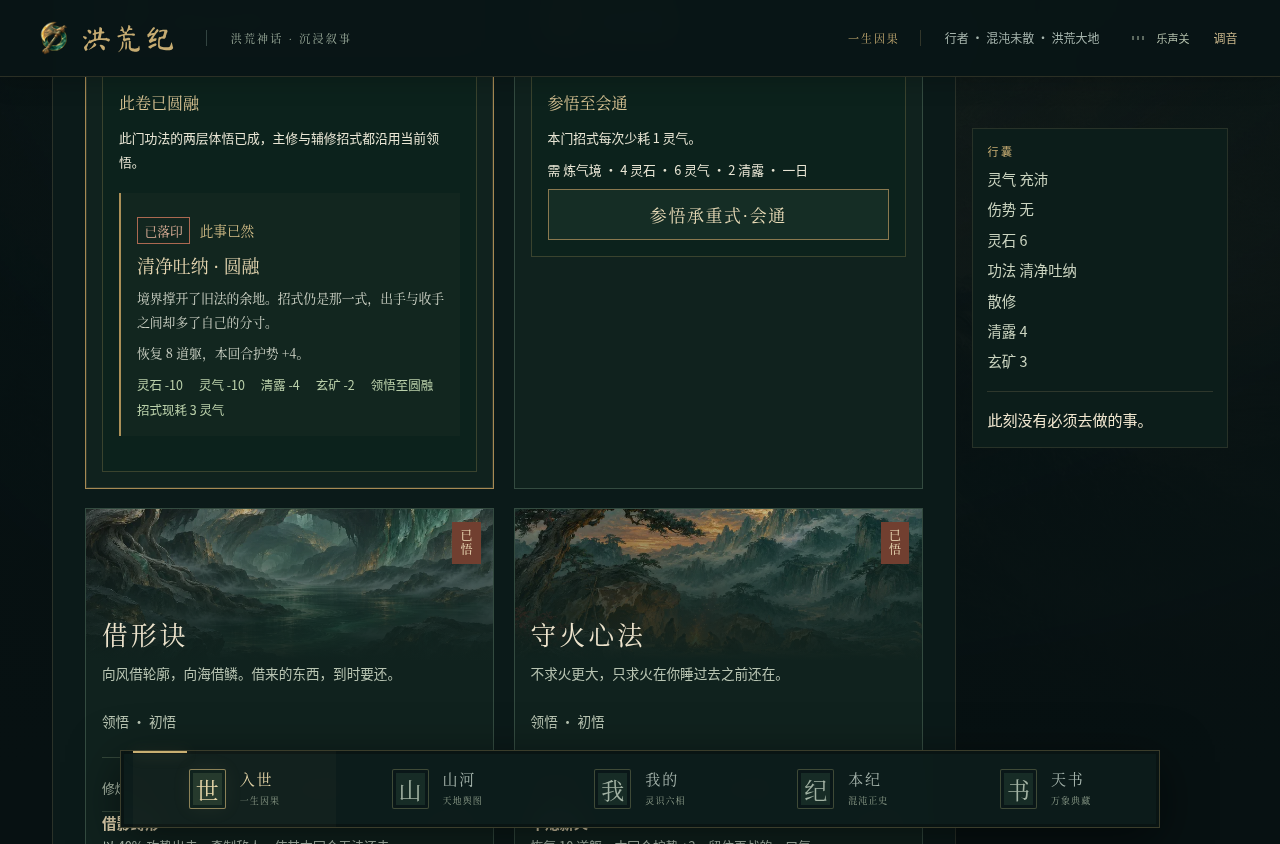
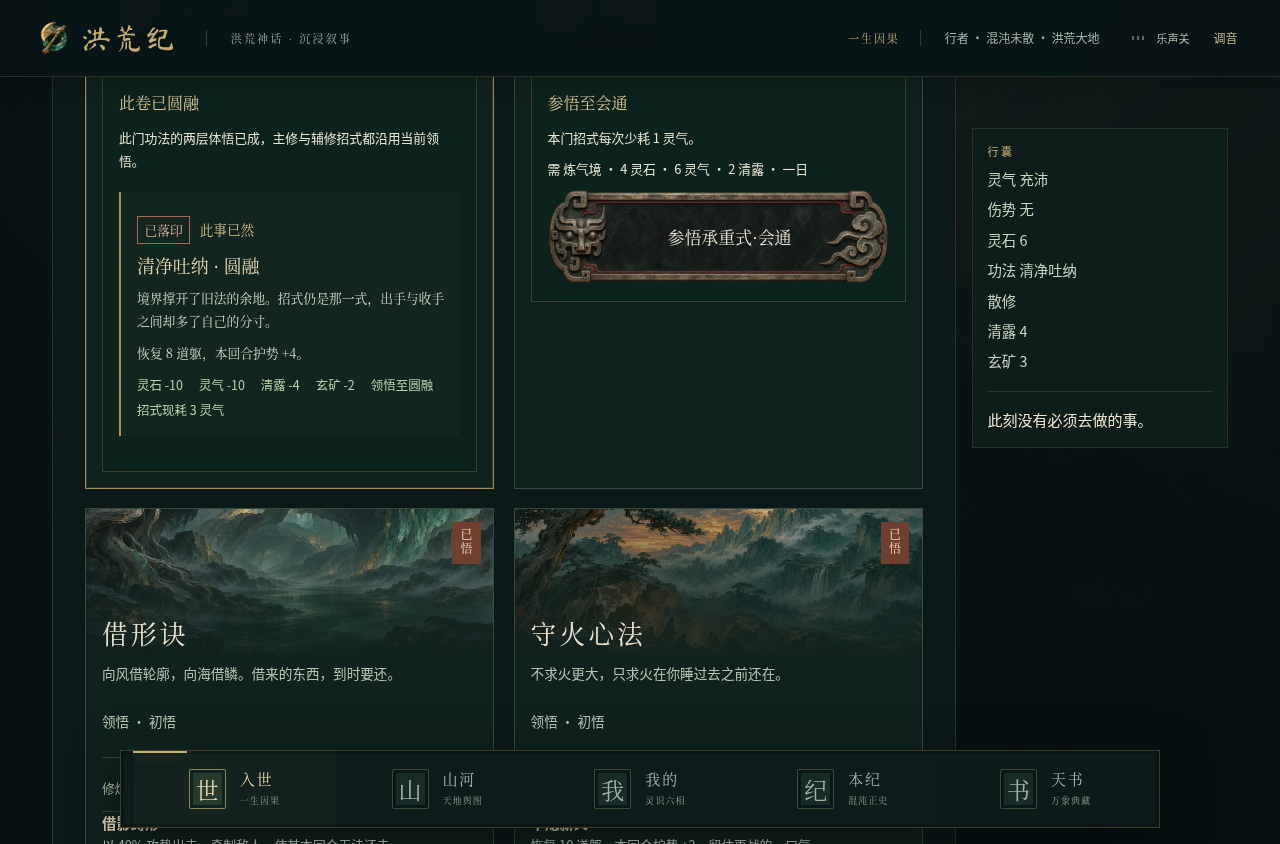
docs: deliver verified Android build and final experience checklist

diff --git a/docs/reviews/relics-insight.md b/docs/reviews/relics-insight.md
@@ -22,6 +22,14 @@
 
 主修、辅修、手动和自动战斗都读取实际领悟。材料不足时不扣费；参悟先结算并停止挂机，再次核对资源。动作携带目标级别，重复的旧动作不会跳到下一层重复花费。费用和已知能力公开，剧情隐藏收益仍在选择后揭晓。结果使用已有落印与局部阅读反馈。
 
+## 截图复核发现的样式覆盖
+
+Android 模拟器首轮功能通过后，截图显示主修与参悟按钮仍是普通矩形。浏览器新增计算样式断言先复现失败：`.art-scroll button` 的旧背景规则优先级高于绘画控件。最小修复只让该旧规则作用于 `:not(.game-action)`，保留普通按钮布局；主修和参悟重新使用原有青铜纹样。
+
+新断言同时加入浏览器和 APK 检查。修复后四种宽度在开发、正式构建各 12/12 通过。开发回归期间一次元素失效超时，在停止并发构建后完整复跑通过；没有把该次失败记成通过。保留 [样式修复前的失败记录](../../screenshots/growth/style-before-results.json) 与原生截图对照。
+
+![修复后的参悟铭牌](../../screenshots/growth/study-choice-360.png)
+
 ## 存档与验证
 
 新增 `world.relic`（默认 null）和 `world.insights`（默认空表），保持现有存档版本。迁移过滤不存在的器物、未学或非法等级；实际御器还须拥有对应收藏。原人物、法宝、旗标、小说记录和旧篇规则保留。
@@ -31,7 +39,7 @@
 - 新功能开发及正式构建浏览器各 12/12 通过，覆盖 320、360、412、1280px；实点九器详情、换器/收起/刷新、两层参悟的确切扣费、旧记录保留、参悟后真实斗法。360px 使用减少动态效果。无横向溢出与控制台错误。
 - 正式构建另通过阅读衔接 12/12 和游历反馈/挂机/功法回归 20/20，合计 44 项。首屏开发与正式版可见正文一致、无页面错误或横向溢出；冷启动截图有一次早于图片绘制，等图片解码后补拍确认两者原画正常。冒烟脚本的品牌警告源于错误使用 `/workspace` 为根目录；仓库 `brand-check --game` 为零警告。
 - 本轮差异与新增文本文件的常见 Token、API 密钥、私钥模式扫描无命中；未打印凭据。这不是全面安全审计。独立只读代码复核未发现阻塞问题。
-- Android 模拟器检查新增到工作流：在飞行模式下安装包冷启、十二个本地音频解码、御器/参悟、HOME 返回后音轨续播、强停后离线读档。实际结果以本报告最终记录为准，不以有测试脚本代替通过。
+- Android 15 / API 35 模拟器：5/5 实际流程通过，并通过绘画按钮样式断言。实装 APK，飞行模式冷启、十二个本地音频解码、御器/参悟扣费保存、系统 HOME 后音乐停止并按原位置续播、强停后离线读档，均已运行；不是仅添加脚本。
 
 ## 边界
 
@@ -46,3 +54,25 @@
 | ![御器](../../screenshots/growth/relic-320.png) | ![参悟](../../screenshots/growth/insight-360.png) | ![斗法](../../screenshots/growth/battle-412.png) |
 
 ![桌面功法参悟](../../screenshots/growth/insight-1280.png)
+
+## Android 构建与包内检查
+
+- 原生 APK 构建成功：[运行 42440509568](https://github.com/mistwood38/honghuang-ji/actions/runs/42440509568)，游戏代码 `51e6cb53347a2b9ada827e23bc5eda46f85dd975`。
+- [下载测试包](https://github.com/mistwood38/honghuang-ji/actions/runs/42440509568/artifacts/13601382781)：22,984,883 字节，约 21.9 MiB，产物保留至 2026-11-22。解压得到 `app-debug.apk`。
+- 实际下载的 artifact ZIP 摘要与 GitHub 一致。APK 内含御器、参悟代码、12 个音频文件和 67 张图片；音频逐一与本地源文件一致；没有配置远程网页为客户端入口。`art/` 另有 9 份来源文档，共 76 个文件，图片数量不含文档。
[1 lines of base64/hex data omitted]
+- [包内校验记录](../../screenshots/growth/apk-validation.json)。这是 debug 测试包，未合并 main 或发布正式版。
+
+## Android 模拟器实测
+
+最终原生构建及模拟器任务均通过，见上述运行记录。使用隔离模拟器和测试存档；飞行模式实际开启，Wi-Fi 与移动数据关闭。
+
+[5 项运行结果](../../screenshots/growth/android/results.json) · [下载原生测试证据](https://github.com/mistwood38/honghuang-ji/actions/runs/42440509568/artifacts/13600818859)
+
+| 修复前：旧规则覆盖 | 修复后：实际 APK 铭牌 | 强停后离线续玩 |
+| --- | --- | --- |
+| ![修复前](../../screenshots/growth/android/comprehension-before.png) | ![修复后](../../screenshots/growth/android/study-choice.png) | ![离线重启](../../screenshots/growth/android/offline-restart.png) |
+
+首轮运行曾因 Playwright 对 WebView 下发不支持的 `Browser.setDownloadBehavior` 而中止；连接改为 `noDefaults: true`，保留原生焦点/生命周期，再运行通过。之后图片复核发现并修复上述按钮覆盖，最终 APK 又完整重跑通过。没有把失败或旧包的结果算作最终包通过。
+
+模拟器无人工听感验收；真机性能、长时后台/耗电、扬声器音质与跨签名覆盖安装仍未验证。完整完成/未完成清单见 [当前状态](../completion-status.md)。

diff --git a/docs/android.md b/docs/android.md
@@ -4,9 +4,11 @@
 
 ## 获取
 
-本次已成功生成：[下载新版测试包](https://github.com/mistwood38/honghuang-ji/actions/runs/42373301492/artifacts/13573898977)（2026-11-07，游戏代码 `cc8252f`，约 21.9 MiB；下载产物保留至 2026-11-21）。
+本次已成功生成：[下载新版测试包](https://github.com/mistwood38/honghuang-ji/actions/runs/42440509568/artifacts/13601382781)（2026-11-08，游戏代码 `51e6cb5`，约 21.9 MiB；下载产物保留至 2026-11-22）。
 
-也可以打开仓库的 [Android APK 工作流](https://github.com/mistwood38/honghuang-ji/actions/workflows/android-apk.yml)，选择 `fix/lineage-reading-flow` 分支对应的成功记录，在底部下载 `honghuang-ji-debug`，解压得到 `app-debug.apk`。下载需要登录 GitHub，构建产物保留 14 天。
+也可以打开仓库的 [Android APK 工作流](https://github.com/mistwood38/honghuang-ji/actions/workflows/android-apk.yml)，选择 `feat/relics-and-insight` 分支对应的成功记录，在底部下载 `honghuang-ji-debug`，解压得到 `app-debug.apk`。下载需要登录 GitHub，构建产物保留 14 天。
+
[1 lines of base64/hex data omitted]
 
 这是 debug 签名测试包，不是应用商店发布。没有合并 `main`。工作流在开发分支代码变更时构建，纯文档和截图更新不重复打包。
 
@@ -14,10 +16,12 @@
 
 桌面图标沿用已重制的玄玉金龙标识，加载画面沿用当前开天封面。背景音乐与音效分开开关、调节音量，包含已制作的本地配乐文件。首次播放需用户操作。
 
-安卓返回键先关闭面板，再返回入世或封面；封面再返回时将应用收至后台。后台暂停音频，前台按用户设置恢复。旧版人物、物品和剧情记录仍可导入，新版会补齐当地山河、族脉和世局字段。
+安卓返回键先关闭面板，再返回入世或封面；封面再返回时将应用收至后台。后台暂停音频，前台按用户设置恢复。旧版人物、物品和剧情记录仍可导入，新版会补齐当地山河、族脉、世局、御器和功法领悟字段。
 
 更换签名可能使旧 debug APK 无法直接覆盖安装；卸载会清除本机存档。安装前保留导出的存档文本，避免将卸载当作无损升级。
 
 ## 验证边界
 
-网页版与安卓离线资源构建已在本次开发中验证；最新原生 APK 构建结果见 [本次验收报告](reviews/reading-flow.md)。手机尺寸浏览器测试覆盖 320、360、412 像素，但不等同于安卓真机测试。真机安装、飞行模式、系统后台恢复、实际听感均需单独验证，不将构建成功写成真机通过。
+网页版与安卓离线资源构建、原生 APK 构建和 Android 15 / API 35 模拟器检查已通过，详见 [本次验收报告](reviews/relics-insight.md)。模拟器实际安装 APK，并在飞行模式下验证冷启动、12 个本地音频解码、御器/参悟操作、音乐经系统 HOME 后恢复、强制关闭后保留旧人物/器物/剧情和新增进度；也检查了青铜按钮样式没有被旧规则覆盖。
+
+手机浏览器另覆盖 320、360、412 像素。以上不等同于安卓真机测试：真机性能、长时间后台与耗电、扬声器听感、旧 APK 跨签名覆盖安装尚未验证。

diff --git a/docs/completion-status.md b/docs/completion-status.md
@@ -15,13 +15,13 @@
 | 地点、人物与长期后果 | 39 处地点对象、休养/修补状态；四位人物会行路，有托付与关系；行为改变当地状况 | [境内探索](reviews/living-regions.md) |
 | 四族路线与势力变化 | 24 章、48 个选项、8 个结局；五方势力整备、补给、冲突、停战与巡护 | [族脉与世局](reviews/factions-lineages.md) |
 | 旧存档及离线收益 | 缺省迁移、导入导出；旧人物/器物/剧情保留，重复领取与时钟异常有回归 | 存档与模拟测试、本轮旧字段浏览器用例 |
-| 离线 APK | 本地打包脚本、原生 debug APK 工作流、包内音频/美术资源校验 | [Android](android.md)及对应工作流 |
+| 离线 APK | 原生 debug APK；Android 15 模拟器实装，断网启动、音频解码/后台续播、强停读档和青铜按钮检查通过 | [Android](android.md)及对应工作流 |
 
 ## 仍未做好，不能宣称全部完成
 
 1. **听感品质尚未得到玩家确认。** 六首音乐是原创采样器乐作品，已有段落和旋律，但不等于《完美世界》商业原声的制作与演奏水平。没有真人乐器录音或歌手演唱，也没有借用《荒》的录音与旋律。技术上的可解码、无削波不代表年轻玩家一定喜欢。
 2. **长篇内容深度仍有限。** 四族已有完整可玩的六章路线，不是每族一部长篇史诗；四位动态人物和五方势力也不等于所有神灵拥有完整自主生活。各地域更长的人物关系、更多不同机制的奇遇与长期经济平衡仍可扩充。本轮不扩写原小说。
-3. **真机性能、覆盖安装和系统差异尚未全面验收。** 手机尺寸浏览器、APK 编译、Android 模拟器需要分别报告；不能由其中一项推定安卓真机后台、低端机耗电、扬声器听感或跨签名升级都通过。
+3. **真机性能、覆盖安装和系统差异尚未全面验收。** 手机尺寸浏览器、APK 编译、Android 15 模拟器本轮均已验证；这些结果不能推定安卓真机长时后台、低端机耗电、扬声器听感或跨签名升级都通过。
 4. **美术仍有复用。** 重要场景与四根骨已有真实原画；九器仍以既有图集为基础配独特特效，并非九套高精度独立序列帧。部分场景共用插画，未给每位神灵绘制单独立绘。Grok 平台管理的 PWA manifest 图标未替换。
 5. **长期平衡未完成玩家测试。** 机制有资源消耗、失败、冷却和收益约束，但自动化连续行动不能代替几十小时的真实经济体验。当前主 JS 包仍有超过 500 kB 的构建提示。
 6. **无法核对 Grok 未推送的工作区。** 当前只可核对本地和 GitHub 已提交内容。此前上传总纲原附件已不在当前文件环境，本轮依据保留的设计审查、已实现代码和对话要求收尾，不声称逐字覆盖原附件所有条目。
